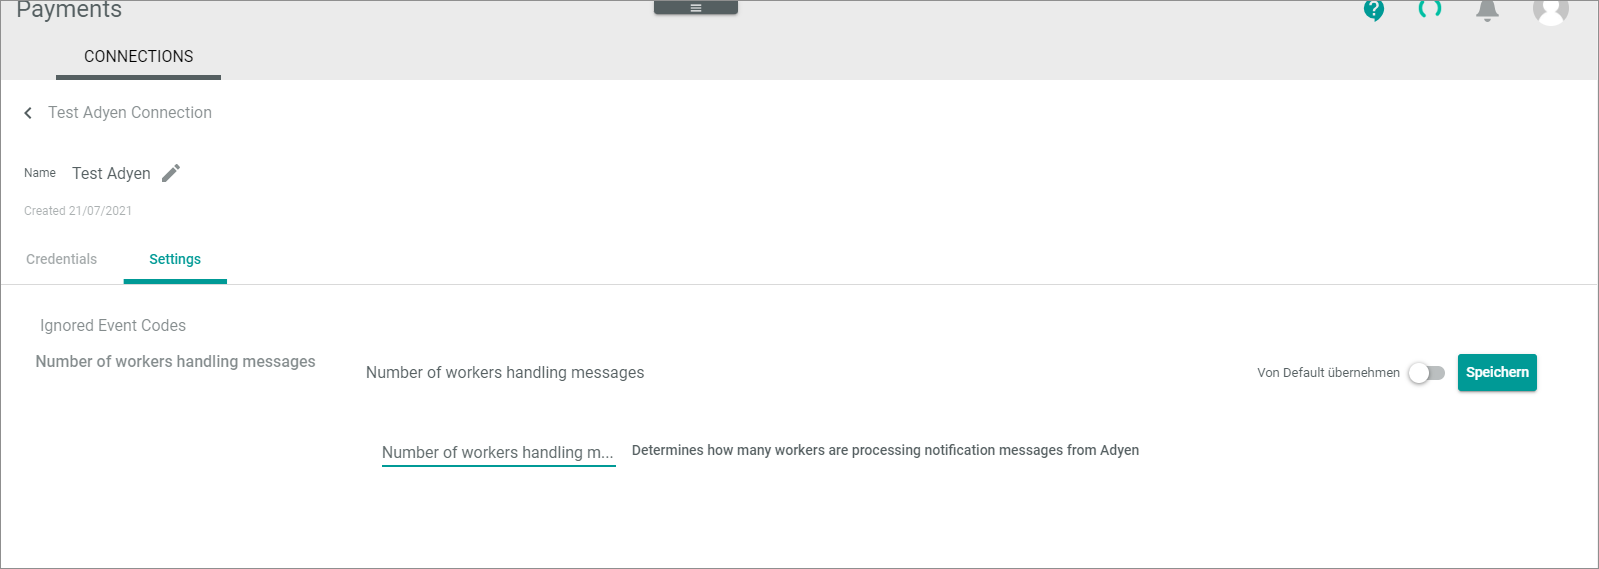
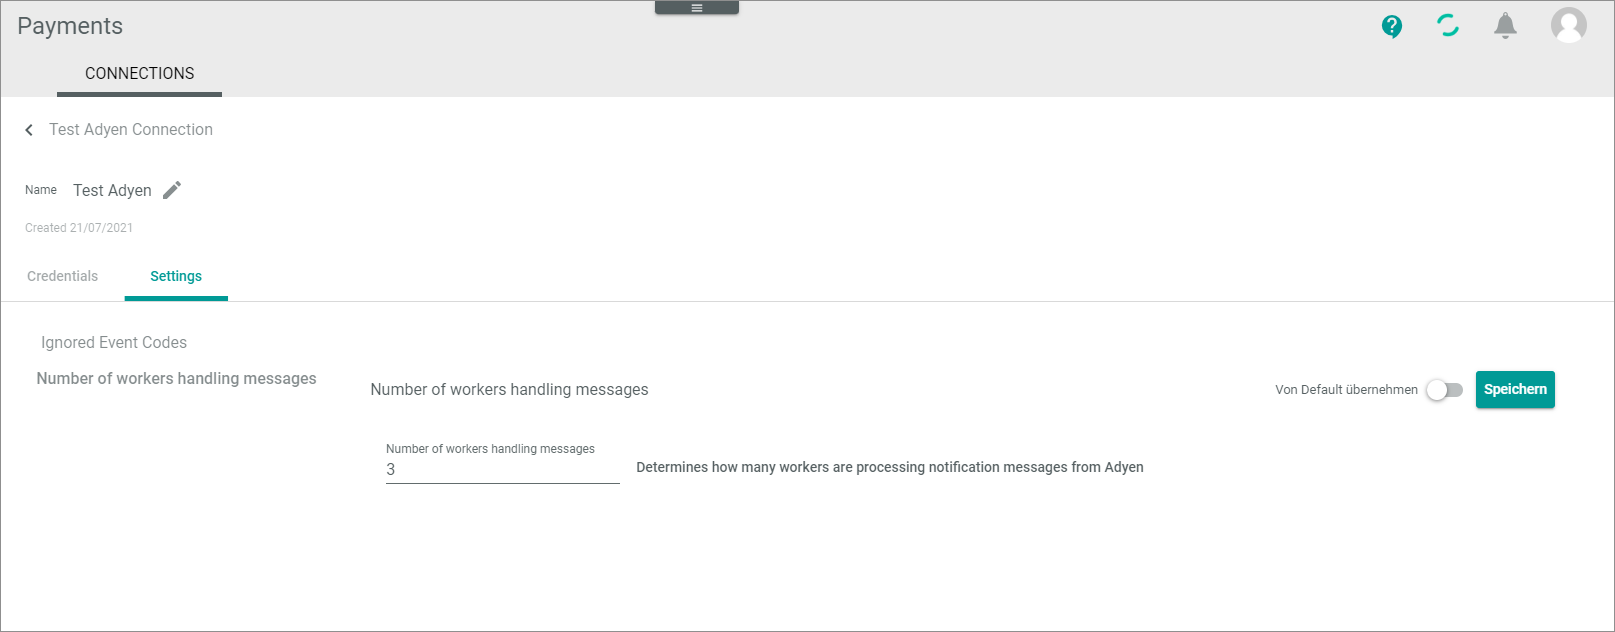
ACD-894

diff --git a/Adyen/Integration/02_ManageAdyenConnection.md b/Adyen/Integration/02_ManageAdyenConnection.md
@@ -35,7 +35,7 @@ Create a connection to the Adyen&trade; payment service provider.
     ![Credentials](../../Assets/Screenshots/Payments/Settings/CreateConnectionCredentials.png "[Credentials]")
 
 4. Enter the API endpoints and credentials. To do this, follow these steps:
-    > [Info] There are some standard access points for a testing environment. For your productive/live environment, Adyen&trade; provides you with individual API endpoints. 
+    > [Info] There are some standard access points for a test environment. For your productive/live environment, Adyen&trade; provides you with individual API endpoints. 
 
     -  Enter the endpoint of the Checkout API in the *Checkout API endpoint* field. 
 
@@ -127,19 +127,19 @@ In the *Actindo Core1 Platform*, you are permitted to create connections in *Pay
    ![Ignored event codes](../../Assets/Screenshots/Adyen/Integration/IgnoredEventCode.png "[Ignored event codes]")
 
 3. If desired, enter an event code to be ignored in the *Key* field and in the *Value* field as well. Note that you can also define the event codes to be ignored in the Adyen&trade; backend. For detailed information, see [Create webhook in Adyen](./01_ManageAdyenSettings.md#create-adyen-webhook).
-    The event code to be ignored is entered. 
-
+    
     ![Ignored event code](../../Assets/Screenshots/Adyen/Integration/IgnoredEventCodeDone.png "[Ignored event code]")
 
 4. If desired, enter further event codes to be ignored. To add a new row, click the ![Add](../../Assets/Icons/Plus04.png "[Add]") (Add) button. 
 
 5. Click the *Number of workers handling messages* setting.   
    The *Number of workers handling messages* setting is displayed. 
+
    ![Number of workers](../../Assets/Screenshots/Adyen/Integration/NumberOfWorkers.png "[Number of workers]")
 
 6. Enter the number of workers you want to use for asynchronous processing of messages. For connections with a lot of traffic, a number between 5-10 might be sufficient. See also [Define synchronous or asynchronous processing](01_ManageAdyenSettings.md#define-synchronous-or-asynchronous-processing).
 
-7. If desired, you can apply the standard settings by enabling the ![Toggle](../../Assets/Icons/Toggle.png "[Toggle]") (Apply default) toggle in the top right corner of the tab.
+7. If desired, you can apply the standard settings by enabling the *Apply from default* ![Toggle](../../Assets/Icons/Toggle.png "[Toggle]") toggle in the top right corner of the tab.
 
 8. Click the [SAVE] button in the top right corner of the tab.   
    The connection settings are applied. Actindo validates the credentials. The list of connections is displayed.

diff --git a/Adyen/Overview/01_General.md b/Adyen/Overview/01_General.md
@@ -1,8 +1,8 @@
 # General information
 
-With the help of the Adyen&trade; payment platform, you can offer your customers all of their preferred payment methods - with the help of just one payment service provider. The integration to the *Payments* module gives you a complete overview of all payments made via Adyen&trade; from all sales channels and allows you to easily transfer them to the *Accounting* module. 
+With the help of the Adyen&trade; payment platform, you can offer your customers all of their preferred payment methods - with the help of just one payment service provider. The integration to the *Payments* module gives you a complete overview of all payments made via Adyen&trade; from all sales channels and allows you to easily transfer them via the *Payment Processing* module to the *Accounting* module. 
 
-The payment service provider Adyen&trade; provides merchants a single platform to accept payments, protect revenues, and control finances. It offers an all-in-one online payment solution built for business, which means that all the different ways to pay online are supported, such as credit cards, invoice, prepayment.<!---Stefan, stimmt das prepayment--> It integrates popular payment service providers such as Amazon Pay&trade;, Paypal&trade; and much more.
+The payment service provider Adyen&trade; provides merchants with a single platform to accept payments, protect revenues, and control finances. It offers an all-in-one online payment solution built for business, which means that all the different ways to pay online are supported, such as credit cards, invoice, or prepayment.<!---Stefan, stimmt das prepayment--> It integrates popular payment service providers such as Amazon Pay&trade;, Paypal&trade; and many more.
 
 This documentation refers to the Adyen&trade; plugin version 1.1.0. There may be differences in the user interface, features, and operation if your Adyen&trade; plugin is installed in a different version.
 
@@ -12,7 +12,7 @@ This documentation refers to the Adyen&trade; plugin version 1.1.0. There may be
 ## Benefits
 
 - Integration with only one payment service provider that covers all required payment methods.
-- Connection via the *Payments* module
+- Connection via the *Payments* module.
 - Receipt of authorizations, captures, refunds, cancellations, and chargebacks via push notification from Adyen&trade; triggered by external sources (for example, store).
 
 

diff --git a/Adyen/UserInterface/01a_Connections.md b/Adyen/UserInterface/01a_Connections.md
@@ -4,7 +4,7 @@
 # CONNECTIONS (Adyen)
 
 The CONNECTIONS tab provides an overview of all connections created for *Payments*. It also allows you to configure these connections.   
-For detailed information on general UI functions of the *CONNECTIONS* tab, see [Connections](../../Payments/UserInterface/08a_Connections.md) in the *Payments* documentation.
+For detailed information on general UI functions and procedures of the *CONNECTIONS* tab, see [Connections](../../Payments/UserInterface/08a_Connections.md) in the *Payments* documentation.
 
 
 ## Edit Adyen connection &ndash; Credentials
@@ -21,13 +21,13 @@ For detailed information on general UI functions of the *CONNECTIONS* tab, see [
 The *Credentials* tab displays the connection credentials that you defined in Adyen&trade;. They are a copy of these credentials. 
 
 - *Checkout API endpoint*   
-   Endpoint of the Checkout API that is managed in Adyen&trade;. For detailed information on the Checkout API, see [Adyen Checkout API](https://docs.adyen.com/api-explorer/Checkout/71/overview "[https://docs.adyen.com/api-explorer/Checkout/71/overview]") in the Adyen&trade; documentation. For the testing environment it is `https://checkout-test.adyen.com/checkout/`, for the live account you get the endpoint directly from Adyen&trade;. 
+   Endpoint of the Checkout API that is managed in Adyen&trade;. For detailed information on the Checkout API, see [Adyen Checkout API](https://docs.adyen.com/api-explorer/Checkout/71/overview "[https://docs.adyen.com/api-explorer/Checkout/71/overview]") in the Adyen&trade; documentation. For the test environment it is `https://checkout-test.adyen.com/checkout/`, for the live account you get the endpoint directly from Adyen&trade;. 
      
 - *Checkout API key*    
    Key of the *Checkout API* endpoint that is managed in the Adyen&trade; backend.
 
 - *Payment API endpoint*   
-   Endpoint of the *Payment API*. For the test environment, it is `https://pal-test.adyen.com/pal/servlet/Payment/`, for the live account you get the endpoint directly from Adyen&trade;.
+   Endpoint of the *Payment API* that is managed in Adyen&trade;. For the test environment, it is `https://pal-test.adyen.com/pal/servlet/Payment/`, for the live account you get the endpoint directly from Adyen&trade;.
 
 - *Payment user*   
    Username of the technical user that is managed in the Adyen&trade; backend.

diff --git a/Adyen/Integration/01_ManageAdyenSettings.md b/Adyen/Integration/01_ManageAdyenSettings.md
@@ -101,7 +101,7 @@ Create a webhook to receive payment notifications from Adyen&trade; to the *Paym
 ## Define synchronous or asynchronous processing
 
 Define whether you want to transfer the payment data using synchronous or asynchronous processing. 
-- At synchronous processing, Adyen&trade; creates a connection for each event that occurs. This has the advantage that Adyen&trade; is immediately informed if a message cannot be processed. The disadvantage is that the message transfer might be slow if a lot of events are to be transferred. See also [Synchronous processing](../Troubleshooting/02_SynchronousProcessing.md) in the Troubleshooting chapter.   
+- At synchronous processing, Adyen&trade; creates a connection for each event that occurs. This has the advantage that Adyen&trade; is immediately informed if a message cannot be processed. The disadvantage is that the message transfer might be slow if a lot of events are to be transferred. See also [Synchronous processing](../Troubleshooting/01_SynchronousProcessing.md) in the Troubleshooting chapter.   
 - At asynchronous processing, a message is not processed directly so that a lot of traffic can be handled. The message is first accepted and roughly checked for plausibility. It is then written to a message queue. After that, the message queue is processed periodically and can be run with parallel jobs. 
 
 

diff --git a/Adyen/Troubleshooting/01_SynchronousProcessing.md b/Adyen/Troubleshooting/01_SynchronousProcessing.md
@@ -1,0 +1,14 @@
+# Blocked queue at synchronous processing
+
+Initial situation: You use the synchronous processing of messages and a faulty message from Adyen&trade; blocks its queue.
+
+**Description**    
+
+Like Actindo, Adyen&trade; uses a queue to send messages. If you are using synchronous message processing, it may happen that a faulty message blocks the queue.  In this case, Adyen&trade; will periodically try to process the message again. As long as this is not successful, all subsequent messages will wait, and you will not receive any payment data from Adyen&trade;.
+
+**Solution approach**
+
+If applicable, change from synchronous processing to asynchronous processing to prevent these situations. For detailed information, see [Define synchronous or asynchronous processing](../Integration/01_ManageAdyenSettings.md#define-synchronous-or-asynchronous-processing).
+
+**Was this chapter helpful?**   
+If you need further assistance, please contact your MPS consultant.

diff --git a/Adyen/Troubleshooting/00_Troubleshooting.md b/Adyen/Troubleshooting/00_Troubleshooting.md
@@ -2,4 +2,4 @@
 
 In this part of the Adyen&trade; documentation, you will find the following chapter:
 
-[Synchronous processing](02_SynchronousProcessing.md)
+[Blocked queue at synchronous processing](01_SynchronousProcessing.md)
